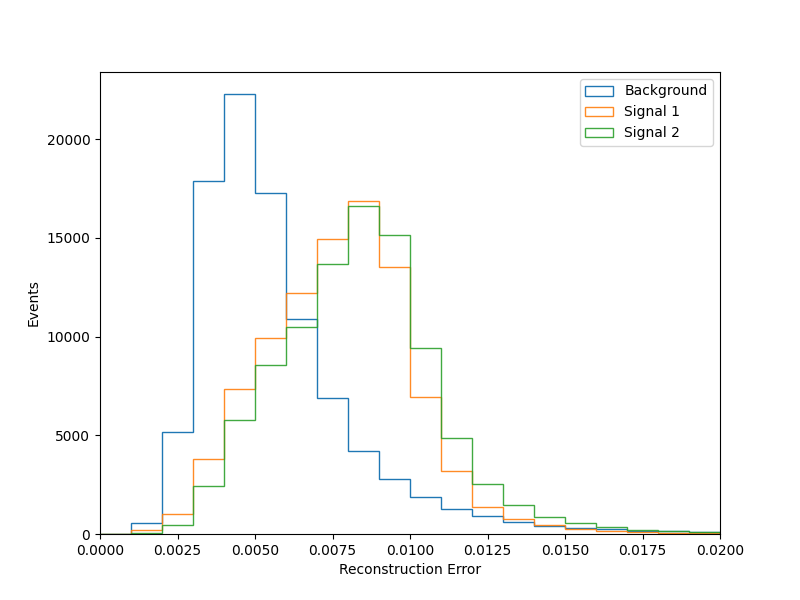
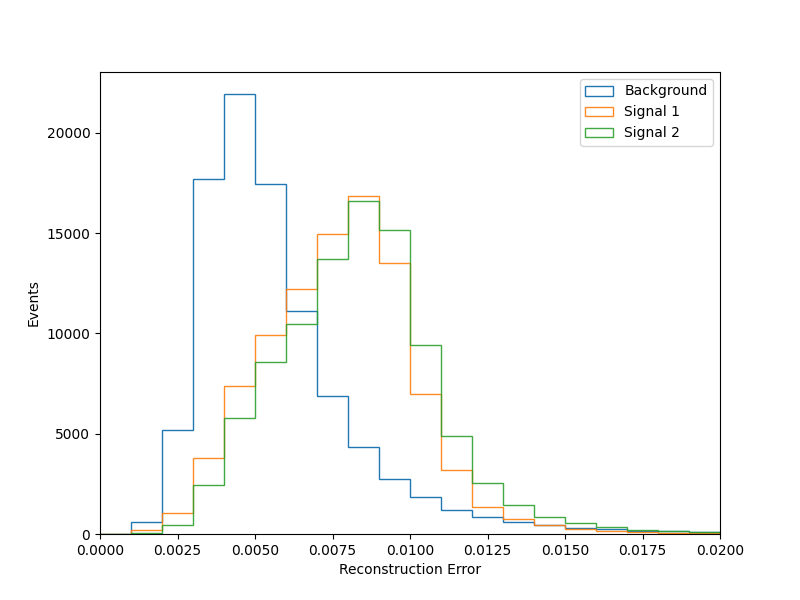
Testing with minmax scaling and 84, 14 layer dimensions

diff --git a/test.py b/test.py
@@ -175,7 +175,8 @@ fig.savefig(f"figs/testing/ROC_{scale}_{mid_dim}_{latent_dim}.png")
 
 ############################################ Normalised Mass Distribution  ##############################################
 
-bkg_tensor = torch.from_numpy(scaler.transform(bkg[selection])).float().to(device)
+# bkg_tensor = torch.from_numpy(scaler.transform(bkg[selection])).float().to(device)
+bkg_tensor = torch.from_numpy(bkg_scaled.values).float().to(device)
 
 # Predictions
 with torch.no_grad(): # no need to compute gradients here
